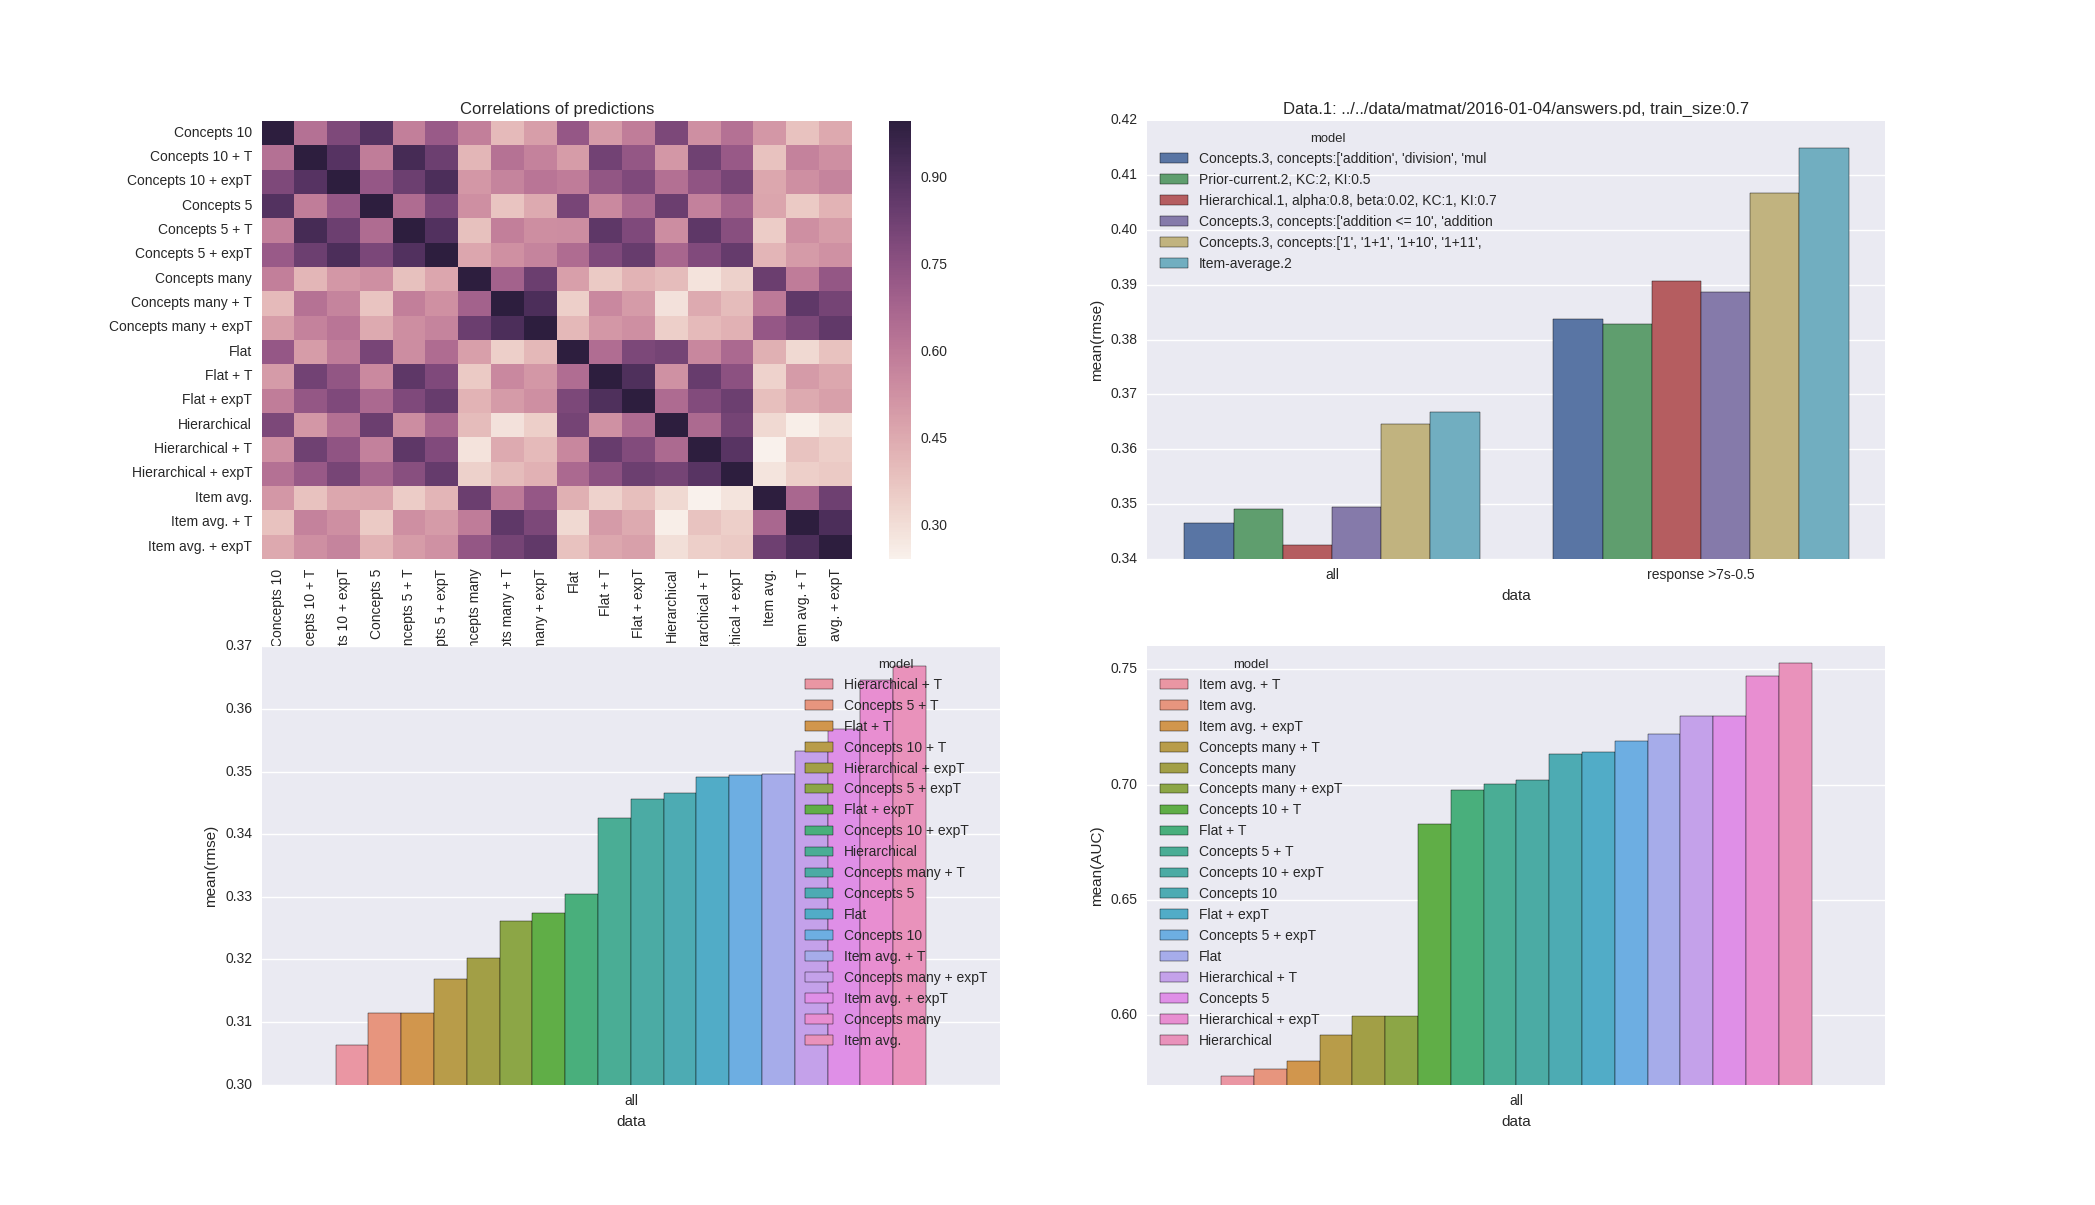
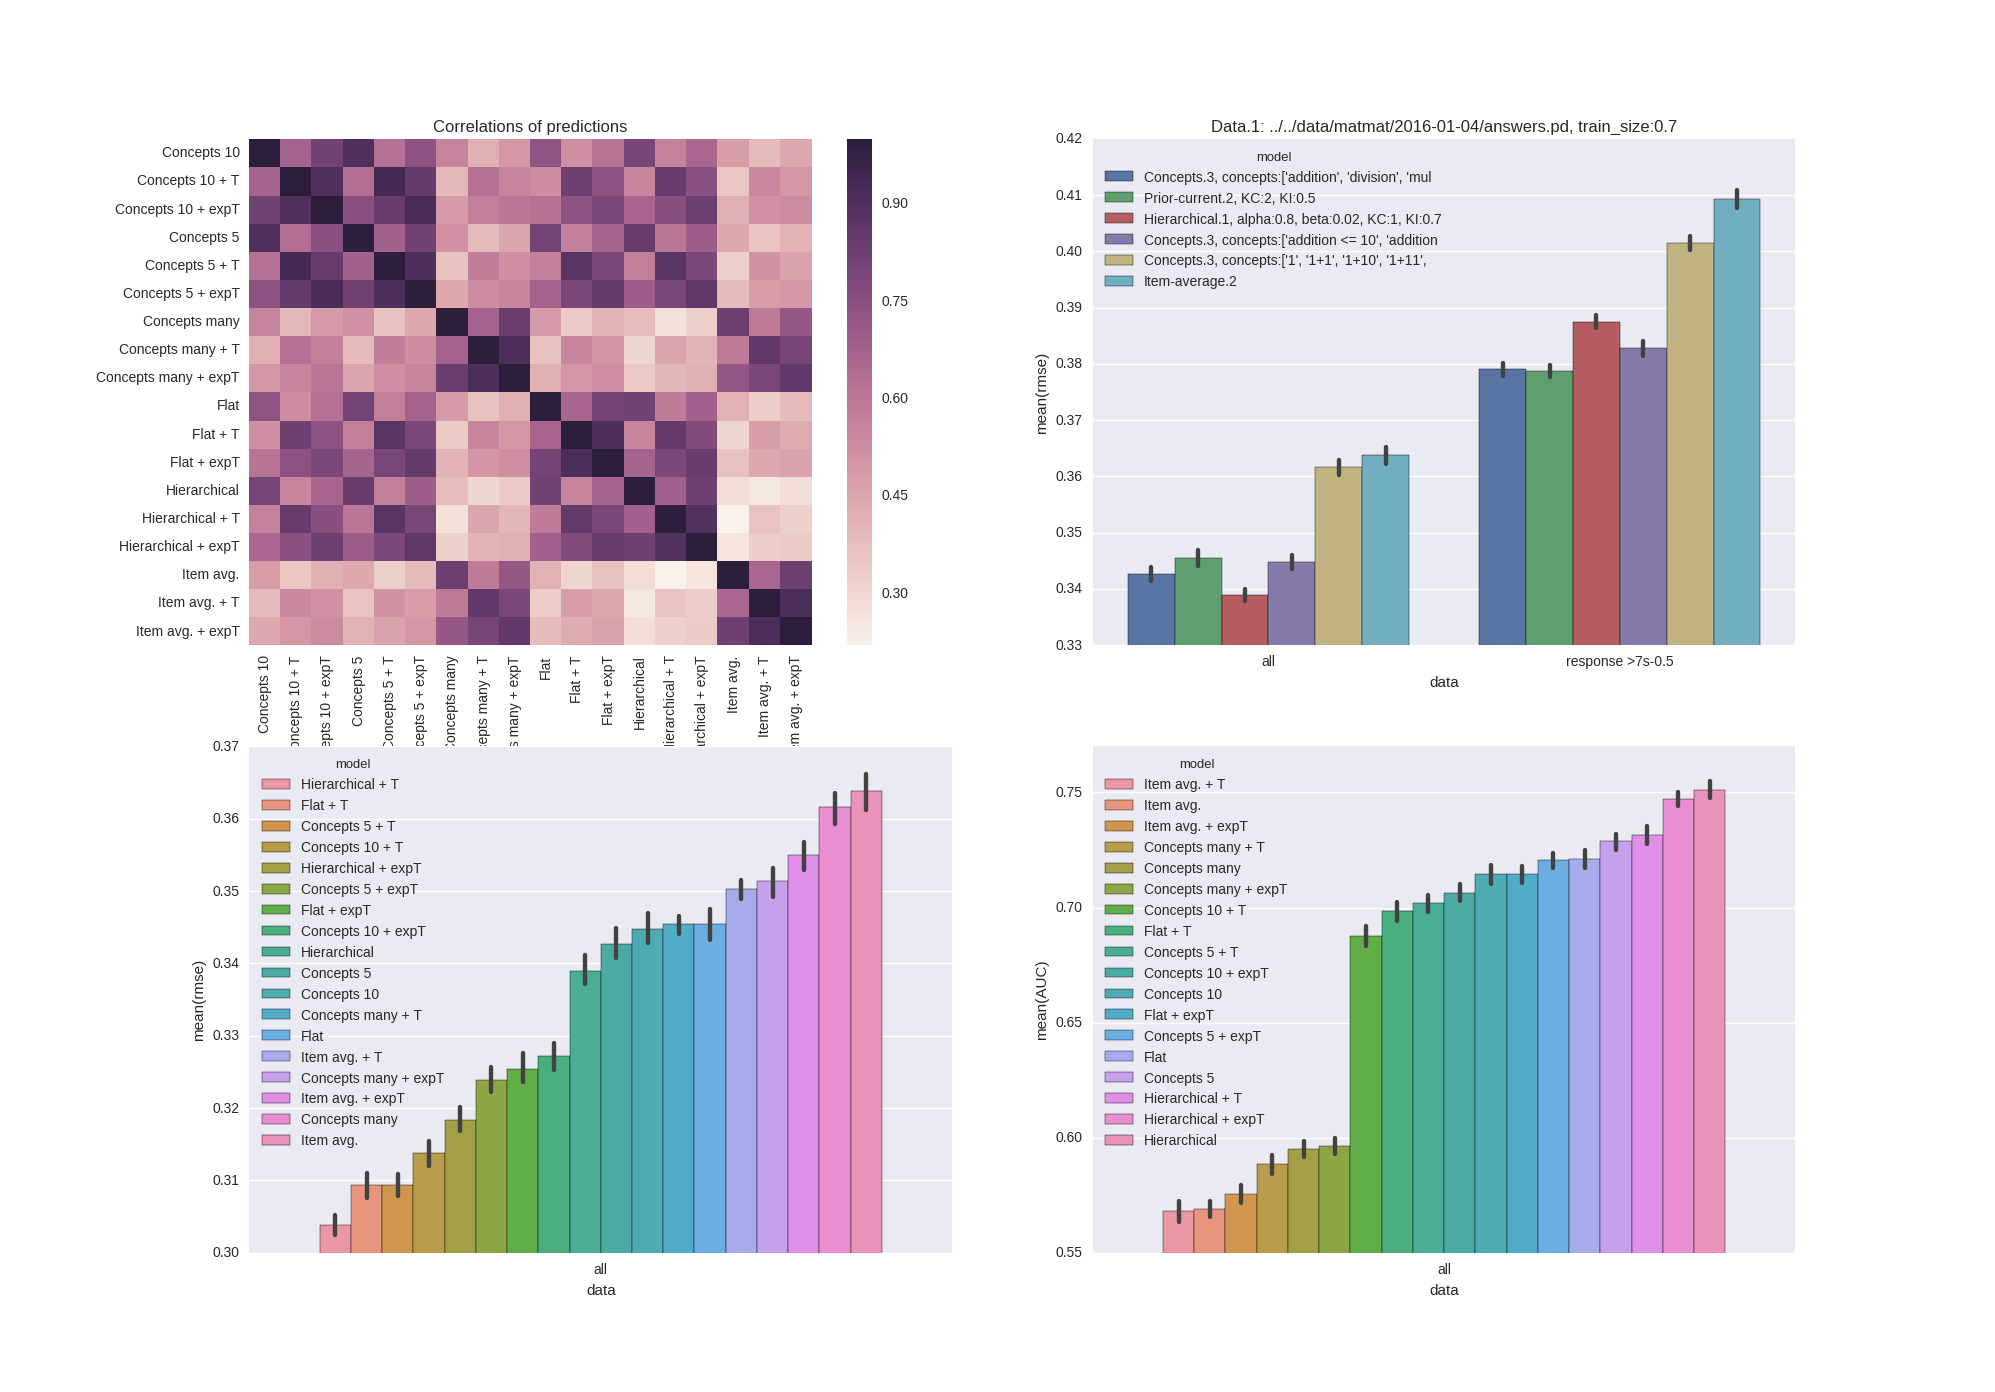
new results with confidence intervals

diff --git a/matmat/model impact/models_impact.py b/matmat/model impact/models_impact.py
@@ -31,7 +31,6 @@ cache = {}
 
 
 def compare_model_predictions(data1, data2, model1, model2, plot=True):
-    print(len(cache))
     if str(data1) + str(model1) not in cache:
         Evaluator(data1, model1).get_report()
         predictions1 = data1.get_dataframe_test()["prediction"]
@@ -63,15 +62,20 @@ def compare_model_predictions(data1, data2, model1, model2, plot=True):
     return predictions_corr
 
 
-def compare_more_models(experiments, eval_data, sort_labels=False):
+def compare_more_models(experiments, eval_data, sort_labels=False, runs=1):
     labels = sorted(experiments.keys())
 
     results = pd.DataFrame(index=labels, columns=labels, dtype=float)
     for label1 in labels:
         for label2 in labels:
-            c = compare_model_predictions(experiments[label1][0](label1), experiments[label2][0](label2),
-                                     experiments[label1][1](label1), experiments[label2][1](label2), plot=False)
-            results[label1][label2] = c
+            for run in range(runs):
+                data1 = experiments[label1][0](label1)
+                data2 = experiments[label2][0](label2)
+                data1.set_seed(run)
+                data2.set_seed(run)
+                c = compare_model_predictions(data1, data2,
+                                  experiments[label1][1](label1), experiments[label2][1](label2), plot=False)
+                results[label1][label2] = c
 
     df = pd.DataFrame(columns=["labels", "rmse"])
     for label in labels:
@@ -86,17 +90,17 @@ def compare_more_models(experiments, eval_data, sort_labels=False):
     plt.subplot(222)
     compare_models(eval_data, [experiments[label][1](label) for label in labels], answer_filters={
         "response >7s-0.5": transform_response_by_time(((7, 0.5),))
-    })
+    }, runs=runs)
     plt.subplot(223)
     compare_models([experiments[label][0](label) for label in labels],
                    [experiments[label][1](label) for label in labels],
                    names=labels,
-                   metric="rmse", force_evaluate=False)
+                   metric="rmse", force_evaluate=False, runs=runs)
     plt.subplot(224)
     compare_models([experiments[label][0](label) for label in labels],
                    [experiments[label][1](label) for label in labels],
                    names=labels,
-                   metric="AUC", force_evaluate=False)
+                   metric="AUC", force_evaluate=False, runs=runs)
 
 
 
@@ -140,7 +144,7 @@ models = {
     "Concepts many + expT": (data_exp_time, lambda l: EloConcepts(concepts=concepts_many)),
 }
 
-compare_more_models(models, data(None))
+# compare_more_models(models, data(None), runs=10)
 
 
 
@@ -155,7 +159,7 @@ models_concepts = {
     "2Concepts many + T": (data_skip_time, lambda l: EloConcepts(concepts=concepts_many)),
 }
 
-# compare_more_models(models_concepts, data(None))
+# compare_more_models(models_concepts, data(None), runs=10)
 
 
 # print(data.get_dataframe_all()["response_time"].median())
